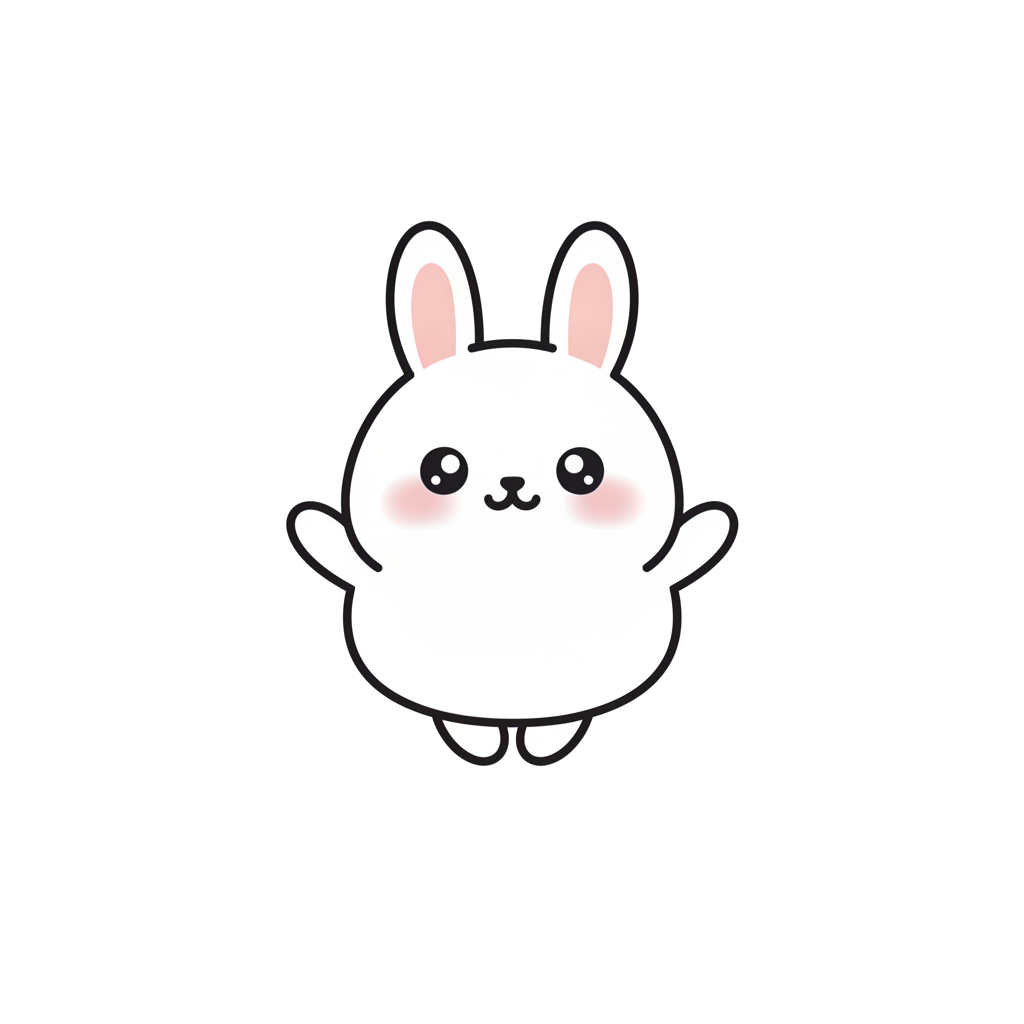
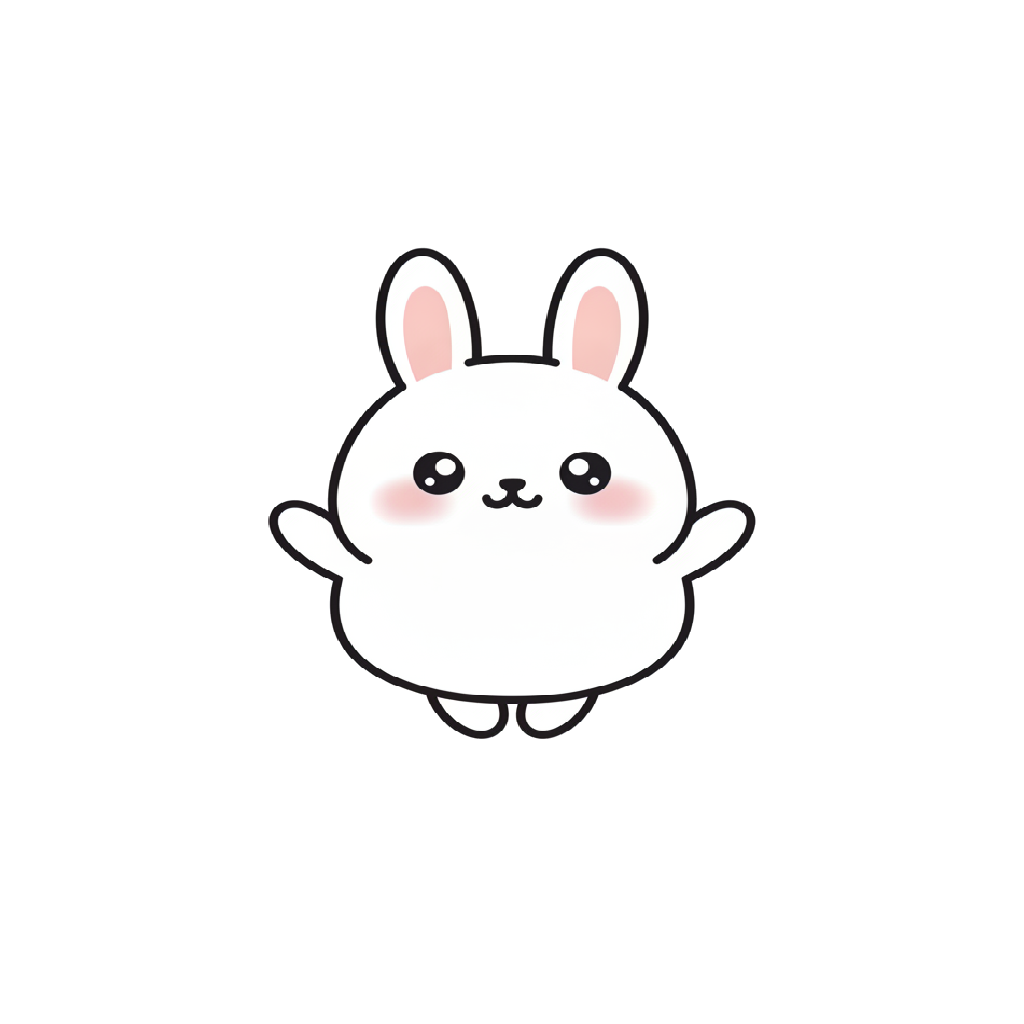
emoticon: fit --ratio로 스쿼시·스트레치를 코드가 넣는다
모델이 지시를 무시한 축이다 — bounce3 8번은 0.90/1.10을 줬는데 실측이
1.008/1.020이었다. 중립 크기(전체 중앙값) 대비 배율을 강제하니
0.899/1.099로 정확히 들어갔다. 시작 크기와 무관하게 결과가 고정되므로
이미 부분적으로 늘어난 프레임에 이중 적용되지 않는다.

게이트가 PASS → REVIEW로 내려간 것은 scaleDrift가 **의도한 세로 스쿼시를**
신고한 것이다(§35에서 예상한 구조적 충돌, §64에 실측으로 기록).

diff --git a/work/emoticon/lesson_learned.md b/work/emoticon/lesson_learned.md
@@ -297,6 +297,24 @@
     전체 경향(접음 5.9~7.7 대 뻗음 6.7~9.5)은 맞으나 프레임 단위로는 튄다.
     → 발 움직임을 확실히 만들려면 리깅(코드가 발을 옮기는 것)이 필요해 보인다.
 
+62. **핑퐁은 오버래핑 액션을 원리적으로 표현할 수 없다.** 12원칙의 드래그에서
+    다리 위치는 **몸 속도 방향의 함수**다 — 상승 중엔 뒤처져 아래로 늘어나고,
+    최고점에서 따라 올라와 접히고, 하강 중엔 접힌 채 남았다가, 최저점에서
+    아래로 쏟아진다. 즉 **같은 높이라도 올라갈 때와 내려올 때 다리가 달라야
+    한다.** 핑퐁은 하강을 상승의 거울로 만들므로 이 차이를 담을 자리가 없다.
+    생성비를 절반으로 줄이려고 택한 구조(§14)가 이 동작에서는 품질 상한이 된다.
+    → 탄성이 필요한 동작(점프·튀기)은 **편도 루프**로 가야 한다. 비용 2배.
+63. **모델이 무시한 스쿼시·스트레치는 코드가 넣을 수 있다.** bounce3에서
+    지시(0.90/1.10)를 모델이 무시해 실측이 1.008/1.020이었다. `fit --ratio`로
+    중립 크기 대비 배율을 강제하니 0.899/1.099로 정확히 들어갔다 — 시작 크기와
+    무관하게 결과가 고정되므로 이미 부분적으로 늘어난 프레임에 이중 적용될
+    걱정도 없다. **"탄성"의 상당 부분은 다리 관절이 아니라 몸통 스쿼시에서 온다.**
+64. **`scaleDrift`는 의도한 세로 스쿼시를 그대로 결함으로 신고한다.** §35에서
+    구조적 충돌을 예상했는데 실제로 확인됐다 — 코드로 스쿼시를 넣자 게이트가
+    PASS → REVIEW(드리프트 18.2%, 기준 15%)로 떨어졌다. **지표가 잡은 게 바로
+    우리가 의도적으로 넣은 것**이다. soft라 막지는 않지만, 스쿼시가 설계에
+    포함된 컷에서는 이 경고를 읽고 넘길 것.
+
 ## 비용·시간 감각 (실측)
 
 - 시트 1장 ≈ $0.04, 12프레임 컷 1개 ≈ $0.5, Actions 잡 1회 ≈ 4~5분.
